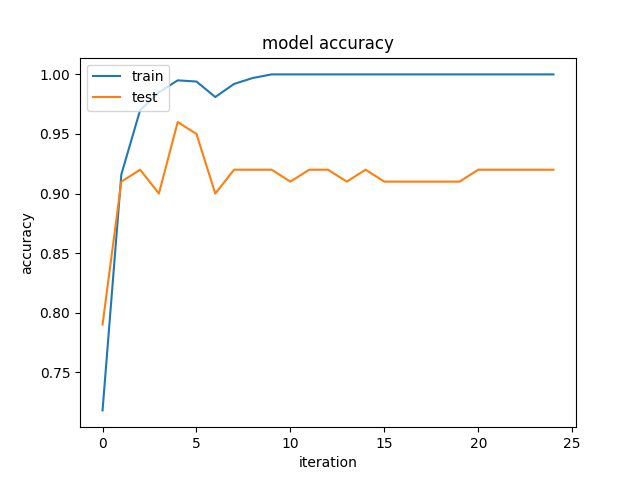
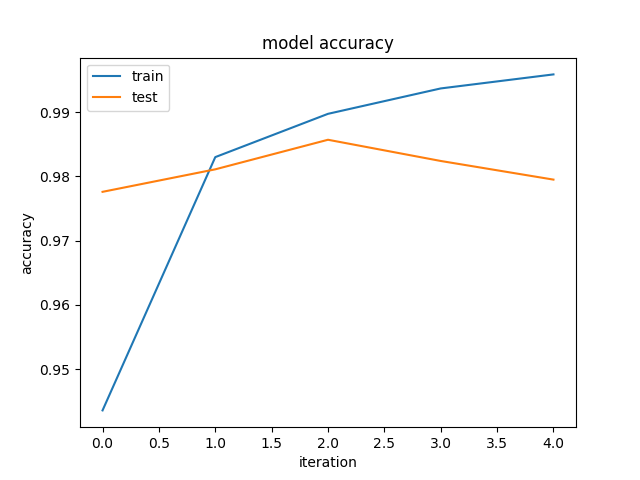
More work on Hebbian layer.

diff --git a/hebbian/train_small_data_mnist_hebbian.py b/hebbian/train_small_data_mnist_hebbian.py
@@ -24,7 +24,7 @@ from hebbian import Hebbian
 # Suppress tensorflow warnings
 os.environ['TF_CPP_MIN_LOG_LEVEL']='2'
 
-train_path = os.path.join('..', 'work', 'training', 'mnist_hebbian')
+train_path = os.path.join('..', 'work', 'training', 'small_data_mnist_hebbian')
 plots_path = os.path.join('..', 'plots')
 
 if not os.path.isdir(train_path):
@@ -62,16 +62,16 @@ for d in device_names:
 
 		# If color channels are last parameter
 		# Image dimensions are 28x28
-		x_train = x_train.reshape(x_train.shape[0], 28, 28, 1).astype('float32')
-		x_valid = x_valid.reshape(x_valid.shape[0], 28, 28, 1).astype('float32')
+		x_train = x_train.reshape(x_train.shape[0], 28, 28, 1).astype('float32')[:1000, :, :, :]
+		x_valid = x_valid.reshape(x_valid.shape[0], 28, 28, 1).astype('float32')[:100, :, :, :]
 
 		# Normalize pixel values between 0 and 1 per channel
 		x_train /= 255
 		x_valid /= 255
 
 		# Convert class label values to one-hot vectors
-		y_train = keras.utils.to_categorical(y_train, num_classes)
-		y_valid = keras.utils.to_categorical(y_valid, num_classes)
+		y_train = keras.utils.to_categorical(y_train, num_classes)[:1000]
+		y_valid = keras.utils.to_categorical(y_valid, num_classes)[:100]
 
 		# Print out sample sizes
 		print("Training samples:", x_train.shape[0])
@@ -83,7 +83,7 @@ for d in device_names:
 		# model.add(Hebbian(model.layers[-1].output_shape[1:]))
 		model.add(Flatten())
 		model.add(Dense(128, activation='relu'))
-		model.add(Hebbian(model.layers[-1].output_shape[1:]))
+		model.add(Hebbian(128))
 		model.add(Dense(64, activation='relu'))
 
 		# Output layer
@@ -95,7 +95,7 @@ for d in device_names:
 					  metrics=['accuracy'])
 
 # check model checkpointing callback which saves only the "best" network according to the 'best_criterion' optional argument (defaults to validation loss)
-model_checkpoint = ModelCheckpoint(os.path.join(train_path, 'weights-{epoch:02d}-' + best_criterion + '.hdf5'), monitor=best_criterion, save_best_only=False)
+model_checkpoint = ModelCheckpoint(os.path.join(train_path, 'best_weights_' + best_criterion + '.hdf5'), monitor=best_criterion, save_best_only=False)
 
 # fit the model using the defined 'model_checkpoint' callback
 history = model.fit(x_train, y_train, batch_size, epochs=num_epochs, validation_data=(x_valid, y_valid), shuffle=True, callbacks=[model_checkpoint])
@@ -107,7 +107,7 @@ plt.title('model accuracy')
 plt.ylabel('accuracy')
 plt.xlabel('iteration')
 plt.legend(['train', 'test'], loc='upper left')
-plt.savefig(os.path.join(plots_path, 'mnist_hebbian_accuracy.png'))
+plt.savefig(os.path.join(plots_path, 'small_data_mnist_hebbian_accuracy.png'))
 plt.clf()
 
 # summarize history for loss
@@ -117,5 +117,5 @@ plt.title('model loss')
 plt.ylabel('loss')
 plt.xlabel('iteration')
 plt.legend(['train', 'test'], loc='upper left')
-plt.savefig(os.path.join(plots_path, 'mnist_hebbian_loss.png'))
+plt.savefig(os.path.join(plots_path, 'small_data_mnist_hebbian_loss.png'))
 

diff --git a/mnist/train_mnist_fc.py b/mnist/train_mnist_fc.py
@@ -19,12 +19,10 @@ from keras.layers import Dense, Dropout, Activation, Flatten
 from keras.layers import Conv2D, MaxPooling2D
 from keras.callbacks import ModelCheckpoint
 
-from hebbian import Hebbian
-
 # Suppress tensorflow warnings
 os.environ['TF_CPP_MIN_LOG_LEVEL']='2'
 
-train_path = os.path.join('..', 'work', 'training', 'mnist_hebbian')
+train_path = os.path.join('..', 'work', 'training', 'mnist_fc_hebbian')
 plots_path = os.path.join('..', 'plots')
 
 if not os.path.isdir(train_path):
@@ -79,12 +77,8 @@ for d in device_names:
 
 		# Build model
 		model = Sequential()
-		model.add(Conv2D(32, (3, 3), activation='relu', input_shape=x_train.shape[1:]))
-		# model.add(Hebbian(model.layers[-1].output_shape[1:]))
-		model.add(Flatten())
-		model.add(Dense(128, activation='relu'))
-		model.add(Hebbian(model.layers[-1].output_shape[1:]))
-		model.add(Dense(64, activation='relu'))
+		model.add(Flatten(input_shape=x_train.shape[1:]))
+		model.add(Dense(784, activation='relu'))
 
 		# Output layer
 		model.add(Dense(num_classes, activation='softmax'))
@@ -95,7 +89,7 @@ for d in device_names:
 					  metrics=['accuracy'])
 
 # check model checkpointing callback which saves only the "best" network according to the 'best_criterion' optional argument (defaults to validation loss)
-model_checkpoint = ModelCheckpoint(os.path.join(train_path, 'weights-{epoch:02d}-' + best_criterion + '.hdf5'), monitor=best_criterion, save_best_only=False)
+model_checkpoint = ModelCheckpoint(os.path.join(train_path, 'best_weights_' + best_criterion + '.hdf5'), monitor=best_criterion, save_best_only=False)
 
 # fit the model using the defined 'model_checkpoint' callback
 history = model.fit(x_train, y_train, batch_size, epochs=num_epochs, validation_data=(x_valid, y_valid), shuffle=True, callbacks=[model_checkpoint])
@@ -107,7 +101,7 @@ plt.title('model accuracy')
 plt.ylabel('accuracy')
 plt.xlabel('iteration')
 plt.legend(['train', 'test'], loc='upper left')
-plt.savefig(os.path.join(plots_path, 'mnist_hebbian_accuracy.png'))
+plt.savefig(os.path.join(plots_path, 'mnist_fc_accuracy.png'))
 plt.clf()
 
 # summarize history for loss
@@ -117,5 +111,5 @@ plt.title('model loss')
 plt.ylabel('loss')
 plt.xlabel('iteration')
 plt.legend(['train', 'test'], loc='upper left')
-plt.savefig(os.path.join(plots_path, 'mnist_hebbian_loss.png'))
+plt.savefig(os.path.join(plots_path, 'mnist_fc_loss.png'))
 

diff --git a/hebbian/train_mnist_fc_hebbian.py b/hebbian/train_mnist_fc_hebbian.py
@@ -24,7 +24,7 @@ from hebbian import Hebbian
 # Suppress tensorflow warnings
 os.environ['TF_CPP_MIN_LOG_LEVEL']='2'
 
-train_path = os.path.join('..', 'work', 'training', 'mnist_hebbian')
+train_path = os.path.join('..', 'work', 'training', 'mnist_fc_hebbian')
 plots_path = os.path.join('..', 'plots')
 
 if not os.path.isdir(train_path):
@@ -79,13 +79,10 @@ for d in device_names:
 
 		# Build model
 		model = Sequential()
-		model.add(Conv2D(32, (3, 3), activation='relu', input_shape=x_train.shape[1:]))
-		# model.add(Hebbian(model.layers[-1].output_shape[1:]))
-		model.add(Flatten())
-		model.add(Dense(128, activation='relu'))
-		model.add(Hebbian(model.layers[-1].output_shape[1:]))
-		model.add(Dense(64, activation='relu'))
-
+		model.add(Flatten(input_shape=x_train.shape[1:]))
+		model.add(Dense(784, activation='relu'))
+		model.add(Hebbian(784))
+	
 		# Output layer
 		model.add(Dense(num_classes, activation='softmax'))
 
@@ -95,7 +92,7 @@ for d in device_names:
 					  metrics=['accuracy'])
 
 # check model checkpointing callback which saves only the "best" network according to the 'best_criterion' optional argument (defaults to validation loss)
-model_checkpoint = ModelCheckpoint(os.path.join(train_path, 'weights-{epoch:02d}-' + best_criterion + '.hdf5'), monitor=best_criterion, save_best_only=False)
+model_checkpoint = ModelCheckpoint(os.path.join(train_path, 'best_weights_' + best_criterion + '.hdf5'), monitor=best_criterion, save_best_only=False)
 
 # fit the model using the defined 'model_checkpoint' callback
 history = model.fit(x_train, y_train, batch_size, epochs=num_epochs, validation_data=(x_valid, y_valid), shuffle=True, callbacks=[model_checkpoint])
@@ -107,7 +104,7 @@ plt.title('model accuracy')
 plt.ylabel('accuracy')
 plt.xlabel('iteration')
 plt.legend(['train', 'test'], loc='upper left')
-plt.savefig(os.path.join(plots_path, 'mnist_hebbian_accuracy.png'))
+plt.savefig(os.path.join(plots_path, 'mnist_fc_hebbian_accuracy.png'))
 plt.clf()
 
 # summarize history for loss
@@ -117,5 +114,5 @@ plt.title('model loss')
 plt.ylabel('loss')
 plt.xlabel('iteration')
 plt.legend(['train', 'test'], loc='upper left')
-plt.savefig(os.path.join(plots_path, 'mnist_hebbian_loss.png'))
+plt.savefig(os.path.join(plots_path, 'mnist_fc_hebbian_loss.png'))
 

diff --git a/hebbian/hebbian.py b/hebbian/hebbian.py
@@ -18,7 +18,7 @@ sess = tf.Session()
 class Hebbian(Layer):
 	
 	
-	def __init__(self, output_dim, lmbda=1, eta=0.01, connectivity='random', **kwargs):
+	def __init__(self, output_dim, lmbda=1, eta=0.0001, connectivity='random', **kwargs):
 		'''
 		Constructor for the Hebbian learning layer.
 
@@ -45,6 +45,7 @@ class Hebbian(Layer):
 	def build(self, input_shape):
 		# Create weight variable for this layer.
 		self.kernel = self.add_weight(name='kernel', shape=(np.prod(input_shape[1:]), np.prod(self.output_dim)), initializer='uniform', trainable=False)
+		self.kernel = self.kernel * tf.diag(tf.zeros(self.output_dim))
 		super(Hebbian, self).build(input_shape)
 
 
@@ -56,17 +57,19 @@ class Hebbian(Layer):
 		x = tf.reshape(x, (tf.reduce_prod(x_shape[1:]), batch_size))
 
 		# compute activations using Hebbian-like update rule
-		activations = self.lmbda * tf.matmul(self.kernel, x)
-
-		# sum contributions over each batch
-		batch_sum = np.divide(tf.reduce_sum(x, axis=1), tf.cast(batch_size, tf.float32))
+		activations = x + self.lmbda * tf.matmul(self.kernel, x)
 
 		# compute outer product of activations matrix with itself
-		outer_product = tf.matmul(batch_sum[:, np.newaxis], batch_sum[np.newaxis, :])	
+		outer_product = tf.matmul(tf.expand_dims(x, 1), tf.expand_dims(x, 0))
 
 		# update the weight matrix of this layer
-		self.kernel = self.kernel + tf.multiply(self.eta, outer_product)
+		self.kernel = self.kernel + tf.multiply(self.eta, tf.reduce_mean(outer_product, axis=2))
+		self.kernel = self.kernel * tf.diag(tf.zeros(self.output_dim))
 
-		# return properly-shaped computed activations
 		return K.reshape(activations, x_shape)
 
+
+	def get_config(self):
+		config = { 'lmbda' : self.lmbda, 'connectivity' : self.connectivity, 'eta' : self.eta }
+		base_config = super(Hebbian, self).get_config()
+		return dict(list(base_config.items()) + list(config.items()))

diff --git a/plot_hebbian_weights.py b/plot_hebbian_weights.py
@@ -1,0 +1,40 @@
+'''
+Visualize the weights of all Hebbian learning layers over the training procedure.
+'''
+
+__author__ = 'Dan Saunders'
+
+import os
+import sys
+import keras
+import argparse
+import numpy as np
+import tensorflow as tf
+import matplotlib.pyplot as plt
+
+
+# get command-line arguments from users
+parser = argparse.ArgumentParser(description='Visualize the weights of all Hebbian learning layers over the training procedure.')
+parser.add_argument('--model_name', default='mnist_hebbian', type=str, help='The name of the network model whose Hebbian layer weights we want to visualize.')
+args = parser.parse_args()
+
+model_name = args.model_name
+
+weights_path = os.path.join('..', 'work', 'training', model_name)
+if not os.path.isdir(weights_path):
+	os.makedirs(weights_path)
+
+# load up weights file into memory
+hebbian_weights = {}
+for f in os.listdir(weights_path):
+	# create empty list for this model checkpoint's Hebbian learning layer weights
+	epoch = int(f.split('-')[1])
+	hebbian_weights[epoch] = []
+
+	# load up the associated model first
+	model = keras.models.load(f)
+	
+	# get only the weights of the Hebbian learning layers
+	for layer in model.layers():
+		if 'hebbian' in layer.name:
+			hebbian_weights

diff --git a/mnist/train_mnist.py b/mnist/train_mnist.py
@@ -88,7 +88,7 @@ for d in device_names:
 					  metrics=['accuracy'])
 
 # check model checkpointing callback which saves only the "best" network according to the 'best_criterion' optional argument (defaults to validation loss)
-model_checkpoint = ModelCheckpoint(os.path.join(train_path, 'best_weights_' + best_criterion + '.hdf5'), monitor=best_criterion, save_best_only=True)
+model_checkpoint = ModelCheckpoint(os.path.join(train_path, 'best_weights_' + best_criterion + '.hdf5'), monitor=best_criterion, save_best_only=False)
 
 # fit the model using the defined 'model_checkpoint' callback
 history = model.fit(x_train, y_train, batch_size, epochs=num_epochs, validation_data=(x_valid, y_valid), shuffle=True, callbacks=[model_checkpoint])

diff --git a/mnist/train_small_data_mnist.py b/mnist/train_small_data_mnist.py
@@ -93,7 +93,7 @@ for d in device_names:
 					  metrics=['accuracy'])
 
 # check model checkpointing callback which saves only the "best" network according to the 'best_criterion' optional argument (defaults to validation loss)
-model_checkpoint = ModelCheckpoint(os.path.join(train_path, 'best_weights_' + best_criterion + '.hdf5'), monitor=best_criterion, save_best_only=True)
+model_checkpoint = ModelCheckpoint(os.path.join(train_path, 'best_weights_' + best_criterion + '.hdf5'), monitor=best_criterion, save_best_only=False)
 
 # fit the model using the defined 'model_checkpoint' callback
 history = model.fit(x_train, y_train, batch_size, epochs=num_epochs, validation_data=(x_valid, y_valid), shuffle=True, callbacks=[model_checkpoint])
